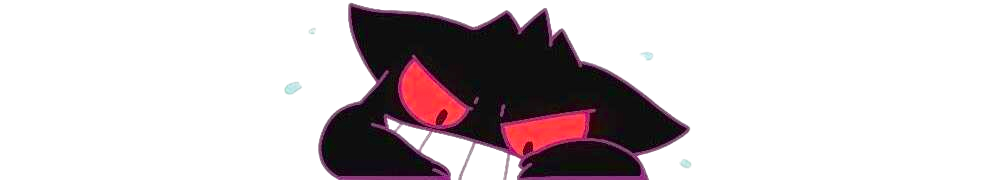
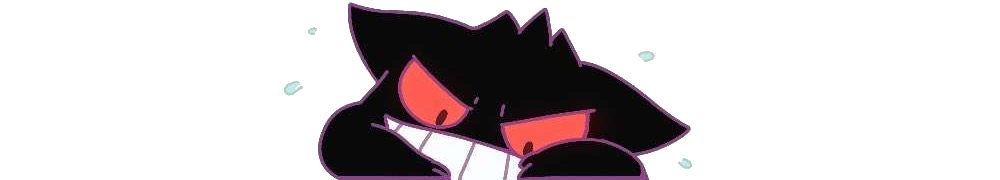
Images

diff --git a/README.md b/README.md
@@ -19,7 +19,7 @@ This GitHub page showcases a collection of my projects and exercises completed o
 
 ##
 <p align="center">
-  <img src="https://github.com/NopeGuy/NopeGuy/blob/main/gengar_top2_nobg.png?raw=true" alt="Top Image" width="70%" style="border-top-left-radius: 10px; border-top-right-radius: 10px;">
+  <img src="https://github.com/NopeGuy/NopeGuy/blob/main/gengar_top_nobg.png?raw=true" alt="Top Image" width="70%" style="border-top-left-radius: 10px; border-top-right-radius: 10px;">
 </p>
 
 <div style="border: none; text-align: center;">
